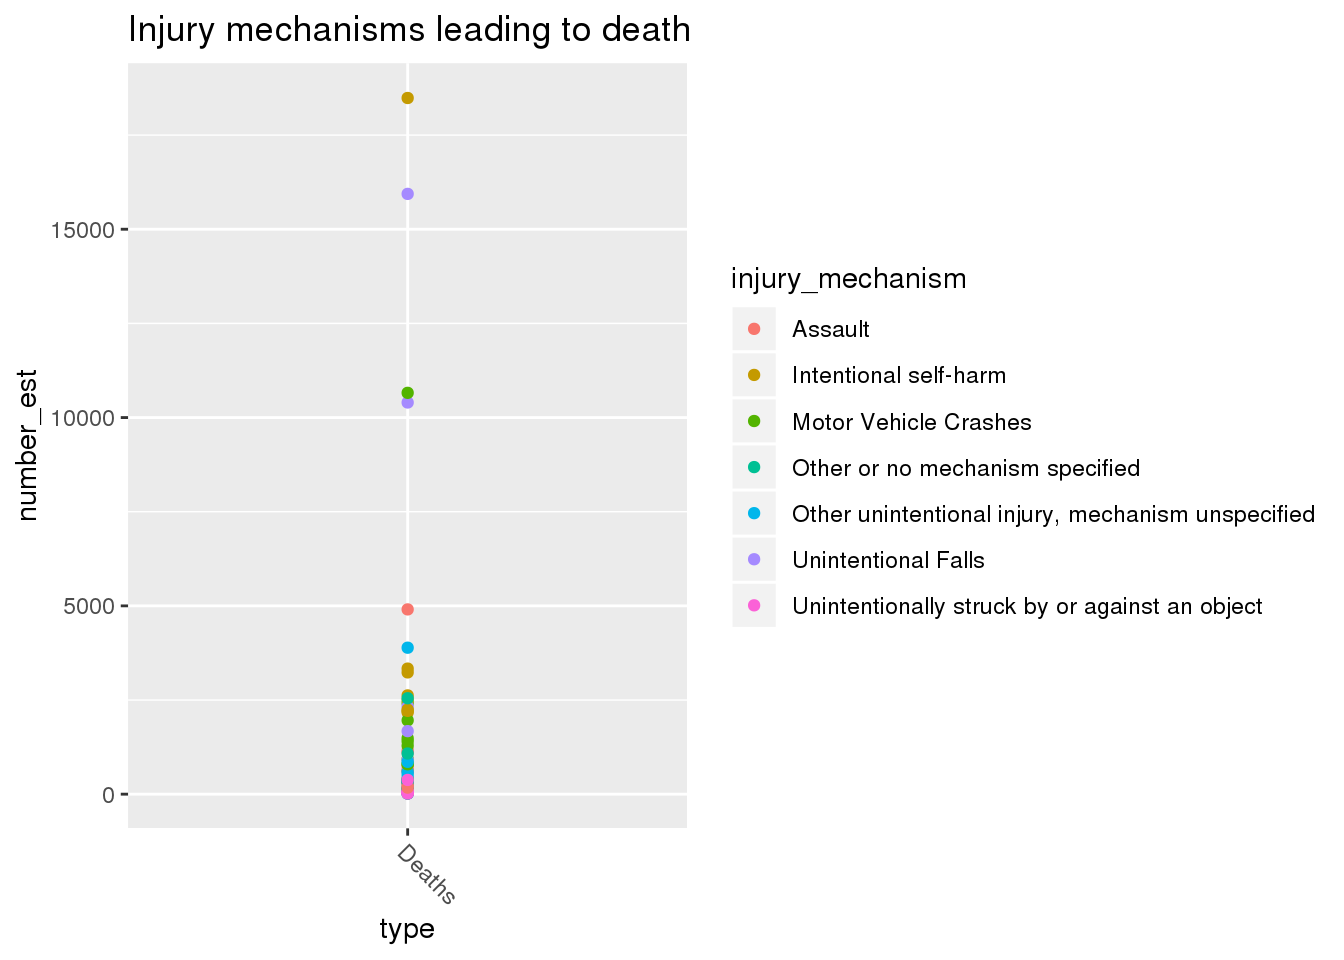
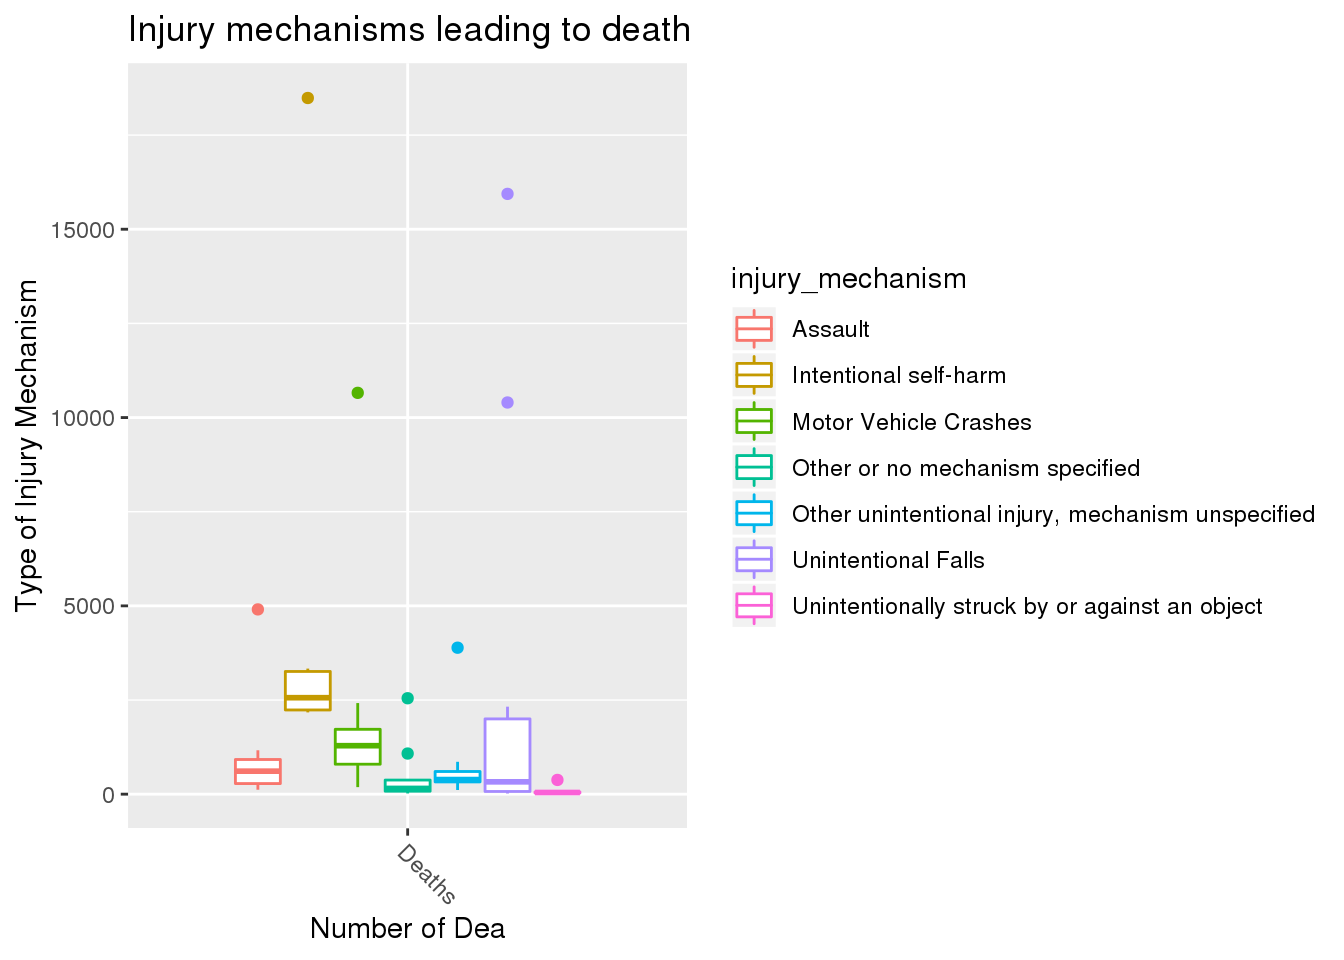
updating TBI page

diff --git a/content/post/2020-12-09-tbi/index.html b/content/post/2020-12-09-tbi/index.html
@@ -1,12 +1,3 @@
----
-title: TBI
-author: ~
-date: '2020-12-09'
-slug: tbi
-categories: []
-tags: []
----
-
 <link href="index_files/anchor-sections/anchor-sections.css" rel="stylesheet" />
 <script src="index_files/anchor-sections/anchor-sections.js"></script>
 
@@ -67,13 +58,16 @@ To determine, I will generate a graph to visualize the number of diagnosed and y
     xlab(&quot;year&quot;) +
     facet_wrap(~ severity, scale = &quot;free&quot;)+
     theme(axis.text.x = element_text(angle =- 45, hjust = 0))+
-    ggtitle(&quot;Number of diagnoses compared to its severity per year  &quot;)</code></pre>
+    ggtitle(&quot;Number of diagnoses compared to its severity per year&quot;)</code></pre>
 <pre><code>## Warning: Removed 12 rows containing non-finite values (stat_boxplot).</code></pre>
 <p><img src="index_files/figure-html/unnamed-chunk-6-1.png" width="672" />
 Of the brain injuries, there is not much to very little change in the data as years progress for the different levels of severity. The graph above makes it apparent that the Army Branch has the widest range of all types of severity throughout all the years. However, the mild and moderate concussions are much more substantial than the not classifiable, penetrating, severe types of concussions. All the other branches remain relatively constant maintaining few TBIs and maintaining approximately the same amount each year.</p>
 <pre class="r"><code>ggplot(data = dat2)+
-  geom_point(mapping = aes(y = diagnosed, x = year , color = service))</code></pre>
-<pre><code>## Warning: Removed 12 rows containing missing values (geom_point).</code></pre>
+  geom_boxplot(mapping = aes(y = diagnosed, x = factor(year) , color = service))+
+  ggtitle(&quot;Number of diagnoses per branch memebrship compared to the year&quot;)+
+  ylab(&quot;Number of Diagnosis&quot;)+
+  xlab(&quot;Year Diagnosed&quot;)</code></pre>
+<pre><code>## Warning: Removed 12 rows containing non-finite values (stat_boxplot).</code></pre>
 <p><img src="index_files/figure-html/unnamed-chunk-7-1.png" width="672" />
 This is another graph depicting the amount diagnosed per year throughout the military. Again, the Army has way more cases each year than any other branch in the military.</p>
 <p>#Question 3
@@ -89,19 +83,21 @@ To determine, I will create a graphic between the type or severity of the TBI to
 ## $ number_est       &lt;dbl&gt; 254793, 252459, 254391, 270240, 292942, 305694, 3112…</code></pre>
 <pre class="r"><code>graph1&lt;-filter(dat1, type %in% c(&quot;Deaths&quot; ))%&gt;%
   ggplot(aes(y = number_est,x= type, color = injury_mechanism))+
-  geom_point(mapping = aes(y= number_est, x= type, color = injury_mechanism))+
+  geom_boxplot(mapping = aes(y= number_est, x= injury_mechanism, color = injury_mechanism))+
   theme(axis.text.x = element_text(angle =- 45, hjust = 0))+
   ggtitle(&quot;Injury mechanism leading to Deaths&quot;)
 graph1</code></pre>
-<pre><code>## Warning: Removed 9 rows containing missing values (geom_point).</code></pre>
+<pre><code>## Warning: Removed 9 rows containing non-finite values (stat_boxplot).</code></pre>
 <p><img src="index_files/figure-html/unnamed-chunk-9-1.png" width="672" /></p>
 <pre class="r"><code>graph2&lt;-filter(dat, type %in% c(&quot;Deaths&quot; ))%&gt;%
   ggplot(aes(y = number_est,x= type, color = injury_mechanism))+
-  geom_point(mapping = aes(y= number_est, x= type, color = injury_mechanism))+
+  geom_boxplot(mapping = aes(y= number_est, x= type, color = injury_mechanism))+
   theme(axis.text.x = element_text(angle =- 45, hjust = 0))+
+  ylab(&quot;Type of Injury Mechanism&quot;) +
+  xlab(&quot;Number of Dea&quot;) +
   ggtitle(&quot;Injury mechanisms leading to death&quot;)
 graph2</code></pre>
-<pre><code>## Warning: Removed 3 rows containing missing values (geom_point).</code></pre>
+<pre><code>## Warning: Removed 3 rows containing non-finite values (stat_boxplot).</code></pre>
 <p><img src="index_files/figure-html/unnamed-chunk-10-1.png" width="672" /></p>
 <pre class="r"><code>#graph examining deaths per age group
 # graph3&lt;-filter(dat, type %in% c(&quot;Deaths&quot; ))%&gt;%
@@ -118,5 +114,7 @@ graph2</code></pre>
 ## $ injury_mechanism &lt;chr&gt; &quot;Motor Vehicle Crashes&quot;, &quot;Unintentional Falls&quot;, &quot;Uni…
 ## $ number_est       &lt;dbl&gt; 47138, 397190, 229236, 55785, NA, 24360, 57983, 5464…
 ## $ rate_est         &lt;dbl&gt; 64.1, 539.8, 311.6, 75.8, NA, 33.1, 78.8, 27.5, 1161…</code></pre>
-<p>Conclusion:</p>
+</div>
+<div id="conclusion" class="section level1">
+<h1>Conclusion</h1>
 </div>
